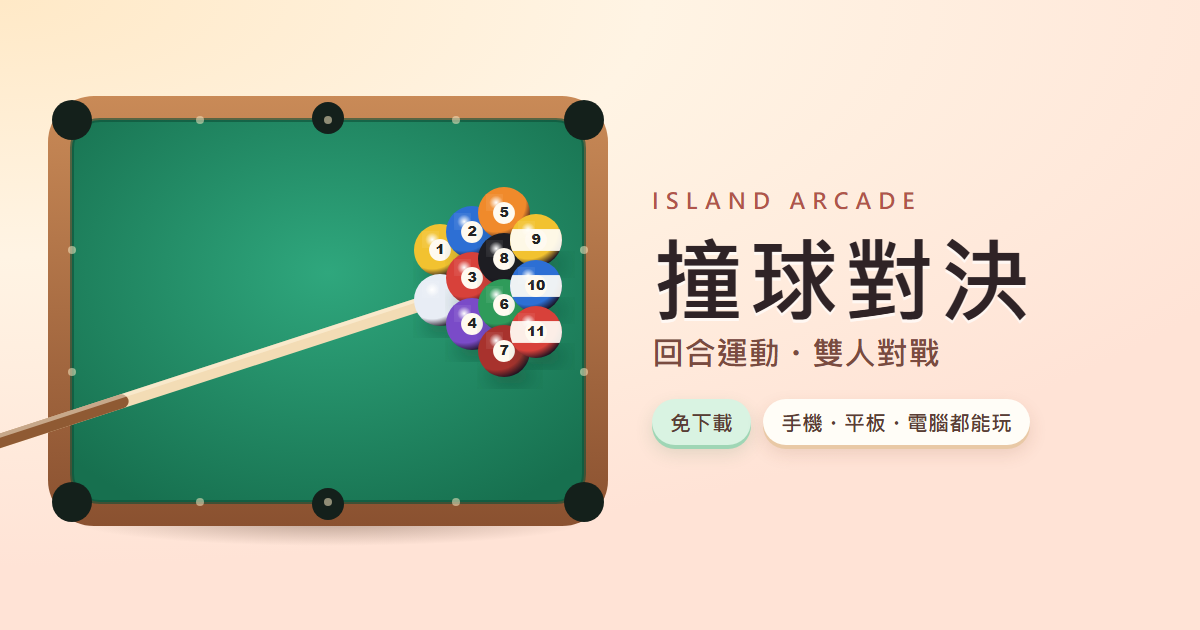
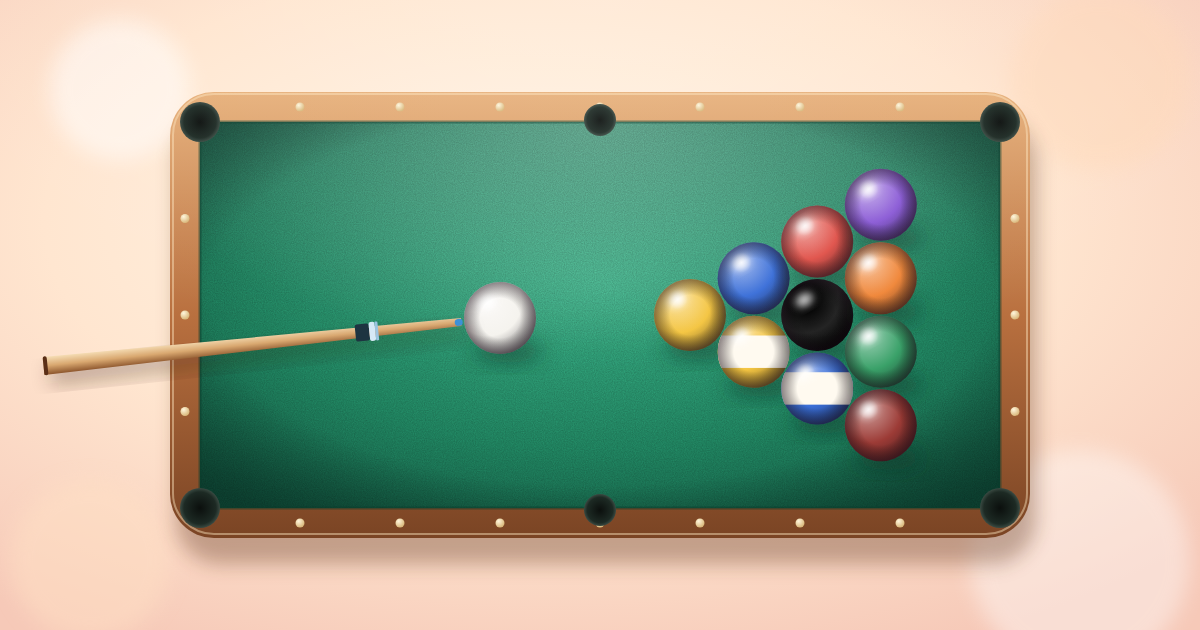
feat(seo): og:image 改用 SEO 分享圖並重繪無文字美術
- og:image 與 twitter:image 改指向 1200×630 的 og-image.png（PNG）
- cover.webp 改為 coverImage，僅用於 JSON-LD 的 image 與 thumbnailUrl
- 注入器改驗 og-image.png 與 cover.webp，並依 PNG 規格輸出 og:image 標籤
- 重繪 SEO 分享圖與 cover 為精緻撞球場景，不含任何文字
- 同步更新 tests/seo.js 斷言並重新產生 public/index.html

diff --git a/scripts/inject-seo.js b/scripts/inject-seo.js
@@ -18,7 +18,10 @@ function validate(cfg, gaId) {
   if (cfg.title.length > 40 || cfg.description.length < 40 || cfg.description.length > 120) throw new Error('SEO 文案長度錯誤');
   if (!/^G-[A-Z0-9]+$/.test(gaId)) throw new Error('GA_MEASUREMENT_ID 格式錯誤');
   if (cfg.ogImage && !/^https:\/\//.test(cfg.ogImage)) throw new Error('ogImage 必須是 HTTPS 網址');
-  if (cfg.ogImage && !/\/assets\/images\/cover\.webp$/.test(cfg.ogImage)) throw new Error('ogImage 必須指向 WebP 遊戲封面');
+  // og:image 使用 1200×630 的 SEO 分享圖（PNG）；cover 另行用於結構化資料。
+  if (cfg.ogImage && !/\/og-image\.png$/.test(cfg.ogImage)) throw new Error('ogImage 必須指向 og-image.png 分享圖');
+  if (cfg.coverImage && !/\/assets\/images\/cover\.webp$/.test(cfg.coverImage)) throw new Error('coverImage 必須指向 WebP 遊戲封面');
+  if (cfg.coverImage && !/^https:\/\//.test(cfg.coverImage)) throw new Error('coverImage 必須是 HTTPS 網址');
 }
 
 function inject(root, env = process.env) {
@@ -31,7 +34,6 @@ function inject(root, env = process.env) {
   if (!/<title\b[^>]*>[\s\S]*?<\/title>/i.test(html)) throw new Error('index.html 缺少 title');
   const descriptionTag = html.match(/<meta\b(?=[^>]*\bname=["']description["'])[^>]*>/i);
   const descriptionKey = descriptionTag && descriptionTag[0].match(/data-i18n-content="([^"]+)"/);
-  const imageHeight = cfg.ogImage ? '675' : '';
   // 保留界線，重複建置不會累積標籤。所有檢查完成才寫入產物。
   html = html.replace(/<!--SEO:HEAD-->[\s\S]*?<!--SEO:END-->/, MARK)
     .replace(/<meta\b(?=[^>]*\bname=["']description["'])[^>]*>\s*/gi, '')
@@ -41,7 +43,7 @@ function inject(root, env = process.env) {
     name: cfg.title.split('｜')[0], url: cfg.siteUrl, description: cfg.description,
     applicationCategory: 'GameApplication', operatingSystem: 'Any', inLanguage: 'zh-Hant',
     genre: cfg.genre, offers: { '@type': 'Offer', price: '0', priceCurrency: 'TWD' },
-    image: cfg.ogImage || undefined, thumbnailUrl: cfg.ogImage || undefined,
+    image: cfg.coverImage || cfg.ogImage || undefined, thumbnailUrl: cfg.coverImage || cfg.ogImage || undefined,
     isPartOf: { '@type': 'WebSite', url: cfg.lobbyUrl }
   };
   const head = [
@@ -60,9 +62,9 @@ function inject(root, env = process.env) {
     '<meta property="og:description" content="' + esc(cfg.description) + '">',
     '<meta property="og:url" content="' + esc(cfg.siteUrl) + '">',
     cfg.ogImage && '<meta property="og:image" content="' + esc(cfg.ogImage) + '">',
-    cfg.ogImage && '<meta property="og:image:type" content="image/webp">',
+    cfg.ogImage && '<meta property="og:image:type" content="image/png">',
     cfg.ogImage && '<meta property="og:image:width" content="1200">',
-    cfg.ogImage && '<meta property="og:image:height" content="' + imageHeight + '">',
+    cfg.ogImage && '<meta property="og:image:height" content="630">',
     cfg.ogImage && '<meta property="og:image:alt" content="' + esc(cfg.ogImageAlt || cfg.title) + '">',
     '<meta name="twitter:card" content="' + (cfg.ogImage ? 'summary_large_image' : 'summary') + '">',
     '<meta name="twitter:title" content="' + esc(cfg.title) + '">',

diff --git a/public/index.html b/public/index.html
@@ -15,16 +15,16 @@
 <meta property="og:title" content="撞球對決｜免費線上雙人撞球・免下載">
 <meta property="og:description" content="免費線上撞球對決，支援簡化九球、八號球與連續進球玩法，拖曳瞄準、調整力道再出桿。可單機練習、挑戰電腦或邀朋友雙人對戰，支援觀戰，免下載，手機平板也能打撞球。">
 <meta property="og:url" content="https://pjh-eric.github.io/pool-duel/">
-<meta property="og:image" content="https://pjh-eric.github.io/pool-duel/assets/images/cover.webp">
-<meta property="og:image:type" content="image/webp">
+<meta property="og:image" content="https://pjh-eric.github.io/pool-duel/og-image.png">
+<meta property="og:image:type" content="image/png">
 <meta property="og:image:width" content="1200">
-<meta property="og:image:height" content="675">
-<meta property="og:image:alt" content="撞球對決 遊戲封面">
+<meta property="og:image:height" content="630">
+<meta property="og:image:alt" content="撞球對決 遊戲分享圖">
 <meta name="twitter:card" content="summary_large_image">
 <meta name="twitter:title" content="撞球對決｜免費線上雙人撞球・免下載">
 <meta name="twitter:description" content="免費線上撞球對決，支援簡化九球、八號球與連續進球玩法，拖曳瞄準、調整力道再出桿。可單機練習、挑戰電腦或邀朋友雙人對戰，支援觀戰，免下載，手機平板也能打撞球。">
-<meta name="twitter:image" content="https://pjh-eric.github.io/pool-duel/assets/images/cover.webp">
-<meta name="twitter:image:alt" content="撞球對決 遊戲封面">
+<meta name="twitter:image" content="https://pjh-eric.github.io/pool-duel/og-image.png">
+<meta name="twitter:image:alt" content="撞球對決 遊戲分享圖">
 <script type="application/ld+json">{"@context":"https://schema.org","@type":"WebApplication","name":"撞球對決","url":"https://pjh-eric.github.io/pool-duel/","description":"免費線上撞球對決，支援簡化九球、八號球與連續進球玩法，拖曳瞄準、調整力道再出桿。可單機練習、挑戰電腦或邀朋友雙人對戰，支援觀戰，免下載，手機平板也能打撞球。","applicationCategory":"GameApplication","operatingSystem":"Any","inLanguage":"zh-Hant","genre":"運動","offers":{"@type":"Offer","price":"0","priceCurrency":"TWD"},"image":"https://pjh-eric.github.io/pool-duel/assets/images/cover.webp","thumbnailUrl":"https://pjh-eric.github.io/pool-duel/assets/images/cover.webp","isPartOf":{"@type":"WebSite","url":"https://pjh-eric.github.io/game-lobby/"}}</script>
 <!--SEO:END-->
 

diff --git a/tests/seo.js b/tests/seo.js
@@ -40,12 +40,12 @@ try {
   const ld = JSON.parse(built.match(/<script type="application\/ld\+json">([\s\S]*?)<\/script>/)[1]);
   assert.equal(ld.url, cfg.siteUrl);
   if (cfg.ogImage) {
-    assert.equal(ld.image, cfg.ogImage);
-    assert.equal(ld.thumbnailUrl, cfg.ogImage);
+    assert.equal(ld.image, cfg.coverImage);
+    assert.equal(ld.thumbnailUrl, cfg.coverImage);
     assert.ok(built.includes('property="og:image" content="' + cfg.ogImage + '"'));
-    assert.ok(built.includes('property="og:image:type" content="image/webp"'));
+    assert.ok(built.includes('property="og:image:type" content="image/png"'));
     assert.ok(built.includes('property="og:image:width" content="1200"'));
-    assert.ok(built.includes('property="og:image:height" content="675"'));
+    assert.ok(built.includes('property="og:image:height" content="630"'));
     assert.ok(built.includes('name="twitter:image" content="' + cfg.ogImage + '"'));
   }
   const sitemap = fs.readFileSync(path.join(temp, 'public/sitemap.xml'), 'utf8');
